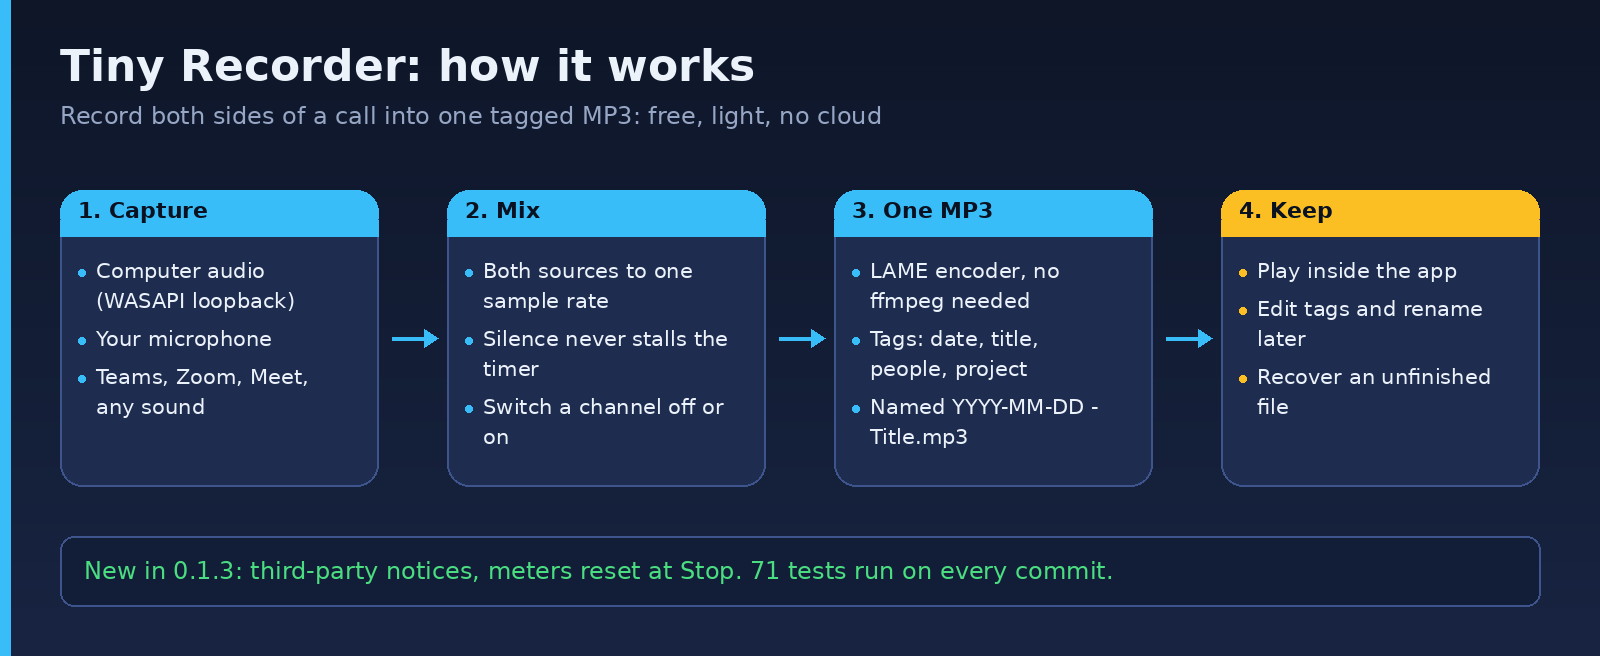
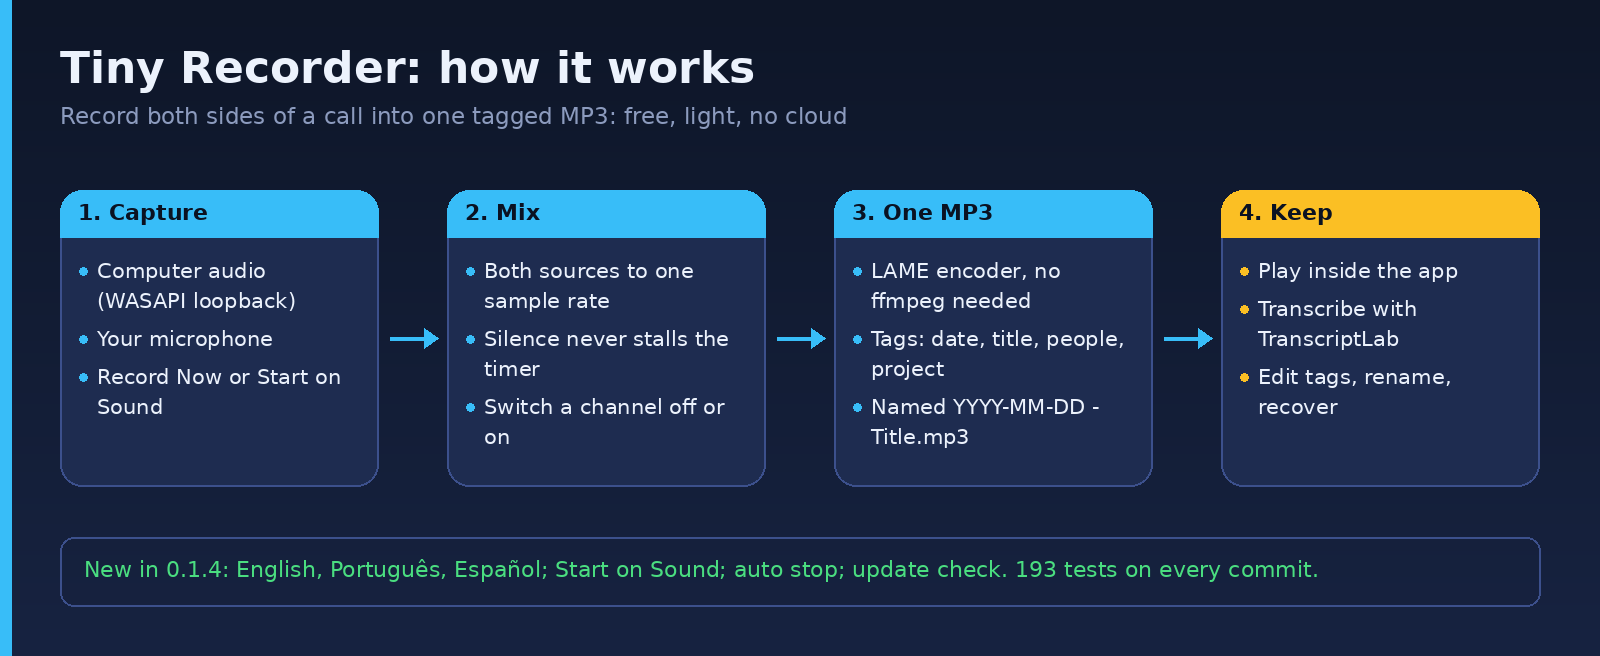
Docs: 0.1.4 images (how it works, social preview, screenshots); CI test fixes

diff --git a/tests/test_i18n.py b/tests/test_i18n.py
@@ -11,6 +11,7 @@ import re
 
 import pytest
 
+from conftest import app_file
 import tinyrecorder_core as core
 import tinyrecorder_help as helpmod
 import tinyrecorder_i18n as i18n
@@ -179,7 +180,7 @@ def test_the_scan_finds_a_plain_text_and_skips_keys():
 
 
 def test_no_user_visible_literal_in_the_window_code():
-    path = [p for p in code_files() if os.path.basename(p).startswith("tinyrecorder_v")][0]
+    path = app_file()                      # tinyrecorder.py in the repository, tinyrecorder_v*.py in the workbench
     tree = ast.parse(open(path, encoding="utf-8").read())
     found = []
     for node in ast.walk(tree):

diff --git a/tests/test_v014_ui.py b/tests/test_v014_ui.py
@@ -3,6 +3,7 @@ Settings switches the language live, the Windows language is the default, and th
 is the same in every language."""
 
 import os
+import sys
 import time
 from tkinter import font as tkfont
 
@@ -72,6 +73,7 @@ def clipped(win):
     return bad
 
 
+@pytest.mark.skipif(sys.platform != "win32", reason="the layout is checked with the Windows fonts (Linux fonts are wider)")
 @pytest.mark.parametrize("lang", LANGS)
 def test_every_screen_builds_with_nothing_clipped(tmp_path, monkeypatch, lang):
     a, mod, out = make_app(tmp_path, monkeypatch, ui_language=lang)
